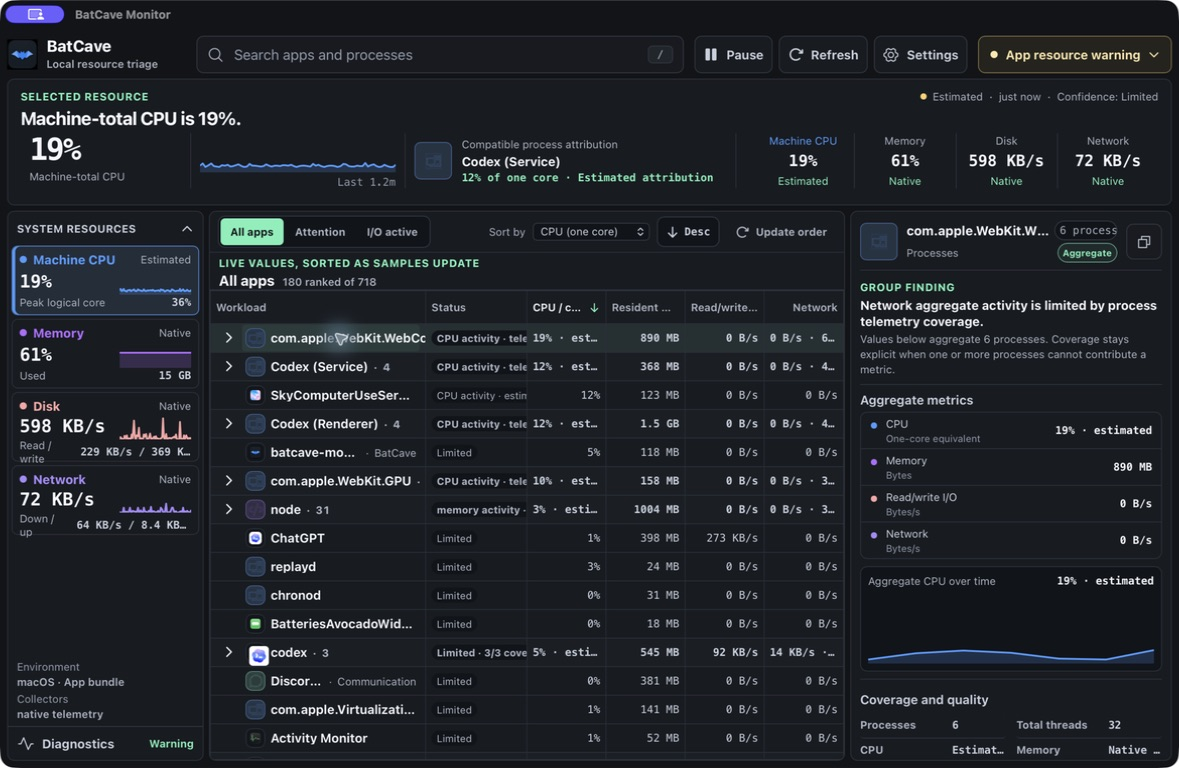
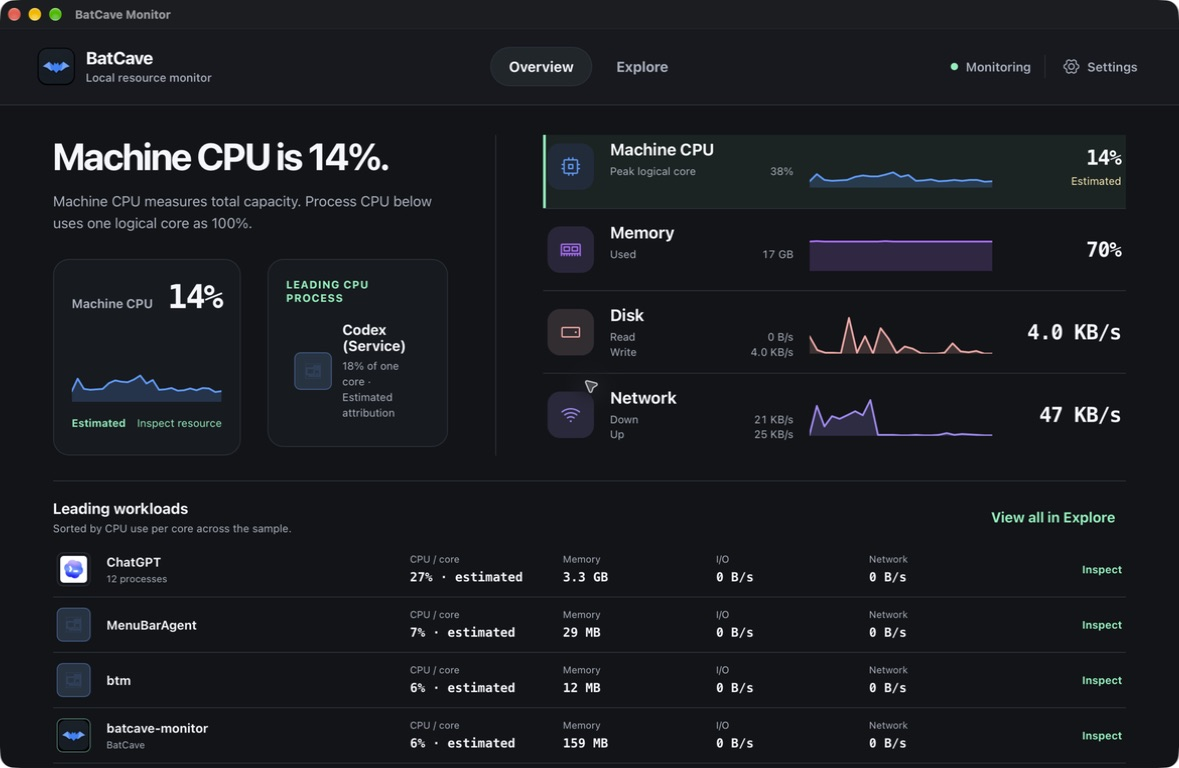
docs: refresh native screenshots and capture evidence

diff --git a/design-qa.md b/design-qa.md
@@ -1,30 +1,35 @@
-# Design QA
+# Native UI evidence
 
-## Source targets
+These screenshots show the native Apple Silicon app with live local telemetry on September 5, 2026. They cover Overview, Explore, and the compact workload inspector after the resource-readout and macOS network-collection fixes.
 
-- `artifacts/design/batcave-ui-overhaul/selected-overview-light.png`
-- `artifacts/design/batcave-ui-overhaul/selected-explore-light.png`
-- `artifacts/design/batcave-ui-overhaul/selected-overview-compact-light.png`
-- `artifacts/design/batcave-ui-overhaul/selected-explore-compact-light.png`
+| Capture | Details |
+| --- | --- |
+| Source | `7242f3c186d59ab6fbbbfbdbdacf133ae41816f4` |
+| App | BatCave Monitor `0.2.0-rc.5`, local ad-hoc build |
+| Host | Apple Silicon, macOS 27.0, build `26A5421a` |
+| Appearance | Cave, system dark mode |
+| Method | Direct native-window captures through Computer Use |
+| Window sizes | Overview and Explore: 1179 × 768; compact inspector: 781 × 768 |
[1 lines of base64/hex data omitted]
 
-## Native implementation evidence
+The captured app predates the PostCSS dependency update; its UI and collector source match the final PR. The images are unedited native captures, not browser fixtures or mockups.
 
-- `docs/assets/ui-overhaul/overview-cave-light.png`
-- `docs/assets/ui-overhaul/explore-cave-light.png`
-- `docs/assets/ui-overhaul/compact-drawer-cave-light.png`
-- `docs/assets/ui-overhaul/chart-motion.gif`
-- `artifacts/design/batcave-ui-overhaul/native-overview-compact-cave-light.png`
-- `artifacts/design/batcave-ui-overhaul/native-explore-compact-cave-light.png`
+## Overview
 
-## Comparison history
+Read and write rates occupy separate lines, keeping each value beside its unit as activity changes. Network download and upload rates use the same layout.
 
-1. The first native render exposed the legacy stylesheet overriding the new shell and stretching Overview cards. The client-overhaul rules were moved after the legacy rules and the Overview grid was changed to content-sized rows.
-2. Native WebKit rejected the icon library's generated barrel export. Direct component imports restored the same icon set and removed the native-only parse failure.
-3. Cave light Overview and Explore captures were compared with the selected designs in `qa-overview-source-vs-native.png` and `qa-explore-source-vs-native.png`.
-4. The implementation keeps the selected design's navigation, light colors, workload density, two-column Explore layout, and compact drawer.
-5. CPU uses the existing uPlot chart in place of the radial mockup, avoiding another chart dependency. Contributor explanations use host-written copy. Models may select an eligible explanation ID but cannot write telemetry claims.
-6. Native compact renders remain contained and scroll correctly. The workload drawer traps focus, closes with Escape, and restores logical focus. Automated checks also cover 200% text, reduced motion, stale and degraded states, and all family/mode pairs.
+![Native Overview with machine resources and leading workloads](docs/images/batcave-monitor-macos-overview.jpg)
 
-## Result
+## Explore
 
-The recorded design comparison passed. These captures document that UI revision; later visible changes require fresh native checks.
+The selected workload keeps its inspector and recorded history beside the ranked list.
+
+![Native Explore with Activity Monitor selected and its session history visible](docs/images/batcave-monitor-macos-explore.jpg)
+
+## Compact inspector
+
+At a narrow window width, workload details open in a drawer. Native verification covered scrolling to the history chart, closing with Escape, and returning focus to the selected workload.
+
+![Native compact workload inspector](docs/images/batcave-monitor-macos-compact-inspector.jpg)
+
+The final native session showed live process network activity and no active collector limitation. Diagnostics still lists unavailable macOS kernel CPU as a data limitation. These captures establish visible behavior; performance budgets and signed release verification remain separate requirements in [the implementation record](docs/rescue-implementation.md).

diff --git a/docs/rescue-implementation.md b/docs/rescue-implementation.md
@@ -59,7 +59,7 @@ Windows creates a missing current-user Start entry on an unelevated installed GU
 
 The resource readout follow-up separates Disk Read/Write and Network Down/Up into stable lines with intact value-unit pairs. All 31 browser accessibility checks pass, including changing rates at 100% and 200% text sizes and narrow layouts. The `c987a91` native build passed the complete Mac validation workflow.
 
[2 lines of base64/hex data omitted]
 
 ## Remaining delivery gates
 

diff --git a/README.md b/README.md
@@ -10,9 +10,9 @@
 
 BatCave shows machine-wide CPU, memory, disk, and network activity alongside the apps and processes using those resources. Select a workload to inspect its recorded history, measurement sources, and missing data.
 
-![BatCave Monitor ranking live workloads in the native Apple Silicon app](docs/images/batcave-monitor-macos-overview.jpg)
+![BatCave Monitor showing machine activity and leading workloads in the native Apple Silicon app](docs/images/batcave-monitor-macos-overview.jpg)
 
-<p align="center"><sub>Native Apple Silicon app showing live local telemetry.</sub></p>
+<p align="center"><sub>Native Apple Silicon app, captured September 5, 2026. <a href="design-qa.md">Capture details</a>.</sub></p>
 
 ## Find the problem, then inspect it
 
@@ -25,13 +25,13 @@ BatCave shows machine-wide CPU, memory, disk, and network activity alongside the
 
 If the operating system denies a process, a collector is still warming up, or a source cannot support a metric, BatCave says so. It does not turn missing telemetry into zeroes.
 
+![BatCave Monitor inspecting a workload and its recorded history in Explore](docs/images/batcave-monitor-macos-explore.jpg)
+
+<p align="center"><sub>Explore shows the selected workload’s history, current readings, and measurement sources.</sub></p>
+
 ## Per-process network activity
 
 Process-network attribution uses XNU NStat on supported macOS layouts, ETW on Windows, and optional eBPF probes on Linux. It measures IP socket payloads. If the collector lacks access or does not support the host, BatCave marks process traffic unavailable.
-
-![BatCave Monitor attributing live network traffic to a Python process on macOS](docs/images/batcave-monitor-macos-network.jpg)
-
-<p align="center"><sub>A local transfer captured through macOS NStat and attributed to its owning process.</sub></p>
 
 ## Platform support
 
